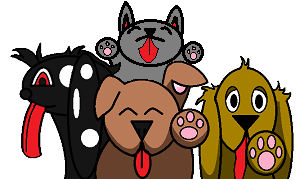
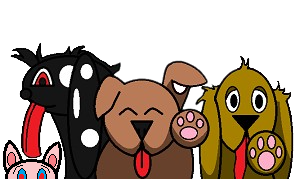
style
ajuste de layout, mudança do papel de parede em diferentes telas

diff --git a/assets/script/script.js b/assets/script/script.js
@@ -1,17 +1,25 @@
-let display = document.querySelector("input");
-let btnMenos = document.getElementById("menos");
-let btnMais = document.getElementById("mais");
-let foto = document.querySelector("img");
+let display = document.querySelector("input");//Visor
+let btnMenos = document.getElementById("menos");//Botão subtrair
+let btnMais = document.getElementById("mais");//Botão Somar
+let foto = document.querySelector("img");//Imagem
 btnMenos.addEventListener("click", subtrair);
 btnMais.addEventListener("click", somar);
-let contagem = 0;
+let contagem = 0;//Contador
+//  FUNÇÃO SOMA
 function somar(){
     contagem++;
     display.value=contagem;
+    //SE MAIOR QUE 0 E MENOR QUE 10, ADICIONA DIGITO 0 NA FRENTE
     if(display.value<10&&display.value>0){
         display.value='0'+contagem;
     }
-    if(display.value>0||display.value<5){
+    //SE O VALOR FOR MENOR QUE 0 A IMAGEM NÃO APAREÇE
+    if(display.value<=(-1)){
+        foto.style.display="none";
+        foto.src="";
+    }
+    //SE MAIOR QUE ZERO E MENOR QUE 5, EXIBA A IMAGEM
+    if(display.value>0||display.value<6){
         foto.style.display="block";
     }  
     if(display.value==0){
@@ -29,15 +37,25 @@ function somar(){
     if(display.value==4){
         foto.src="assets/img/dog4.png";
     } 
+    if(display.value==5){
+        foto.src="assets/img/dog5.png";
+    } 
 }
-
+//  FUNÇÃO SUBTRAIR
 function subtrair(){
     contagem--;
     display.value=contagem;
+    //SE MAIOR QUE 0 E MENOR QUE 10, ADICIONA DIGITO 0 NA FRENTE
     if(display.value<10&&display.value>0){
         display.value='0'+contagem;
     }
-    if(display.value>0||display.value<5){
+    //SE O VALOR FOR MENOR QUE 0 A IMAGEM NÃO APAREÇE
+    if(display.value<=(-1)){
+        foto.style.display="none";
+        foto.src="";
+    }
+    //SE MAIOR QUE ZERO E MENOR QUE 5, EXIBA A IMAGEM
+    if(display.value>0||display.value<6){
         foto.style.display="block";
     } 
     if(display.value==0){
@@ -55,5 +73,20 @@ function subtrair(){
     if(display.value==4){
         foto.src="assets/img/dog4.png";
     } 
+    if(display.value==5){
+        foto.src="assets/img/dog5.png";
+    } 
+}
+
+function tela(){
+    let altura = window.innerHeight;
+    if(altura==667){
+        let conteudo = document.getElementById("container");
+        conteudo.style.marginTop="150px";
+    }
+    else if(altura>=700){
+        let conteudo = document.getElementById("container");
+        conteudo.style.marginTop="-50px";
+    }
 }
 

diff --git a/assets/css/estilo.css b/assets/css/estilo.css
@@ -4,11 +4,12 @@
     padding:0;
 }
 body{
+    min-width:500px;
     height:100vh;
     display:flex;
     align-items:center;
     justify-content:center;
-    background:linear-gradient(to right, #ccfd34, #000cf0);
+    background:linear-gradient(to right, #3fe81d, #0fc4e9);
 }
 #img{
     width:300px;
@@ -60,4 +61,14 @@ button:first-child{
 }
 button:last-child{
     background-color:#4cfd34;
+}
+
+@media screen and (max-width:500px){
+    body{
+        background-image:url("../img/smallbg.png");
+        background-size:cover;
+    }
+   #container{
+    margin-top:-50px;
+   }
 }

diff --git a/index.html b/index.html
@@ -7,7 +7,7 @@
     <title>Contador</title>
     <link rel="stylesheet" type="text/css" href="assets/css/estilo.css">
 </head>
-<body>
+<body onresize="tela()">
     <div id="container">
         <div id="img"><img src=""></div>
     <div id="contents">
